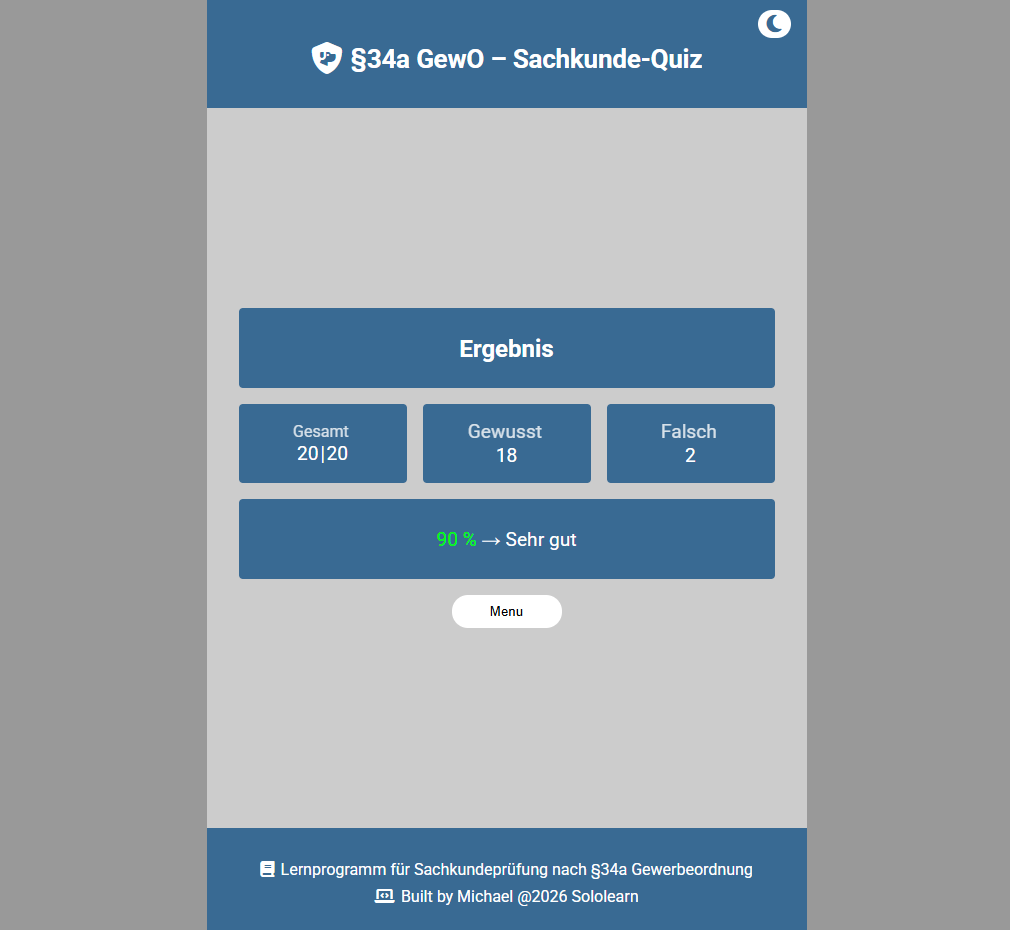
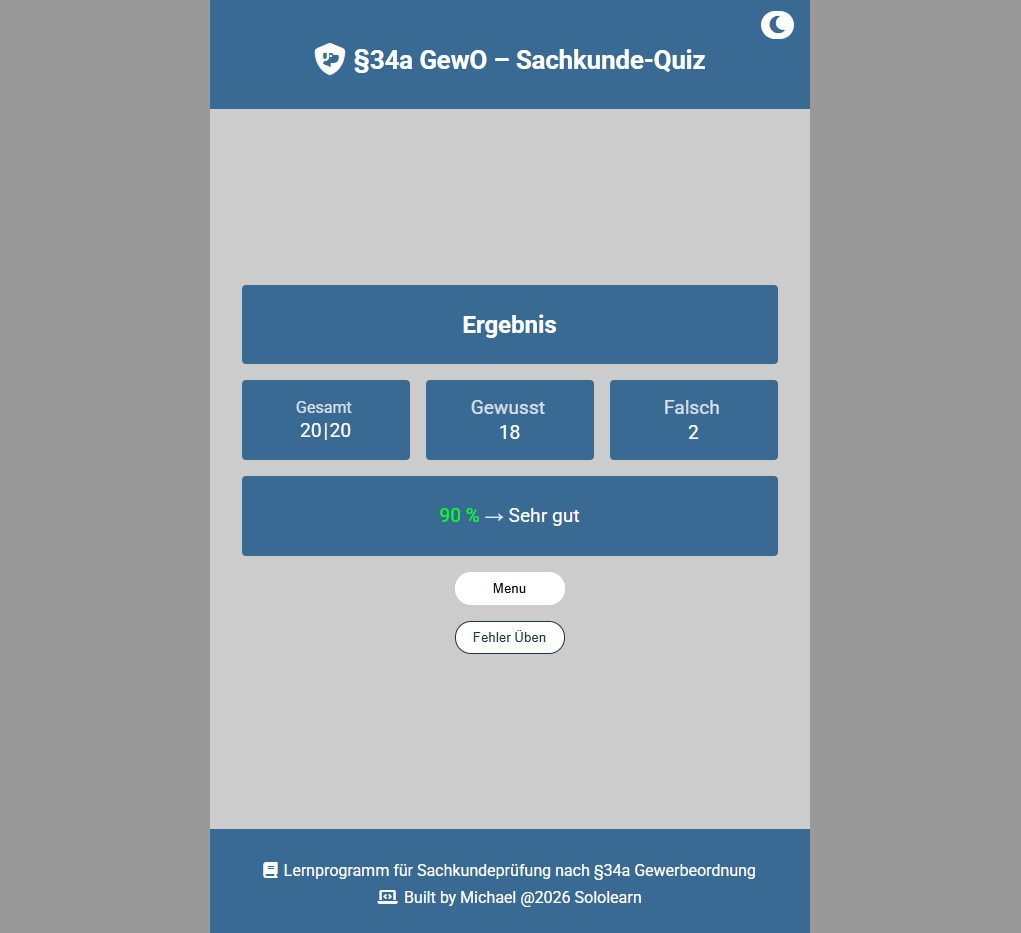
docs(readme): update content and screenshot

Changed region(s): [[0.2149, 0.0, 0.798, 1.0], [0.2762, 0.9043, 0.7366, 0.9978], [0.3069, 0.0312, 0.7059, 0.0935]]

diff --git a/README.md b/README.md
@@ -24,9 +24,9 @@ Interactive Quiz for Sachkundeprüfung §34a GewO (Sololearn Code Bits)
 - Question category selection
 - Self-assessment: Gewusst/Falsch
 - Progress bar
-- Stats showing during game
-- Percentage rating at end screen
-- Currently 114 questions across 5 categories
+- Stats showing during game and Percentage rating at end screen
+- "Fehler Üben" to replay wrong answers
+- Currently 149 questions across 6 categories
 - Light / Dark Theme
 
 ## ⚙ Tech Stack
